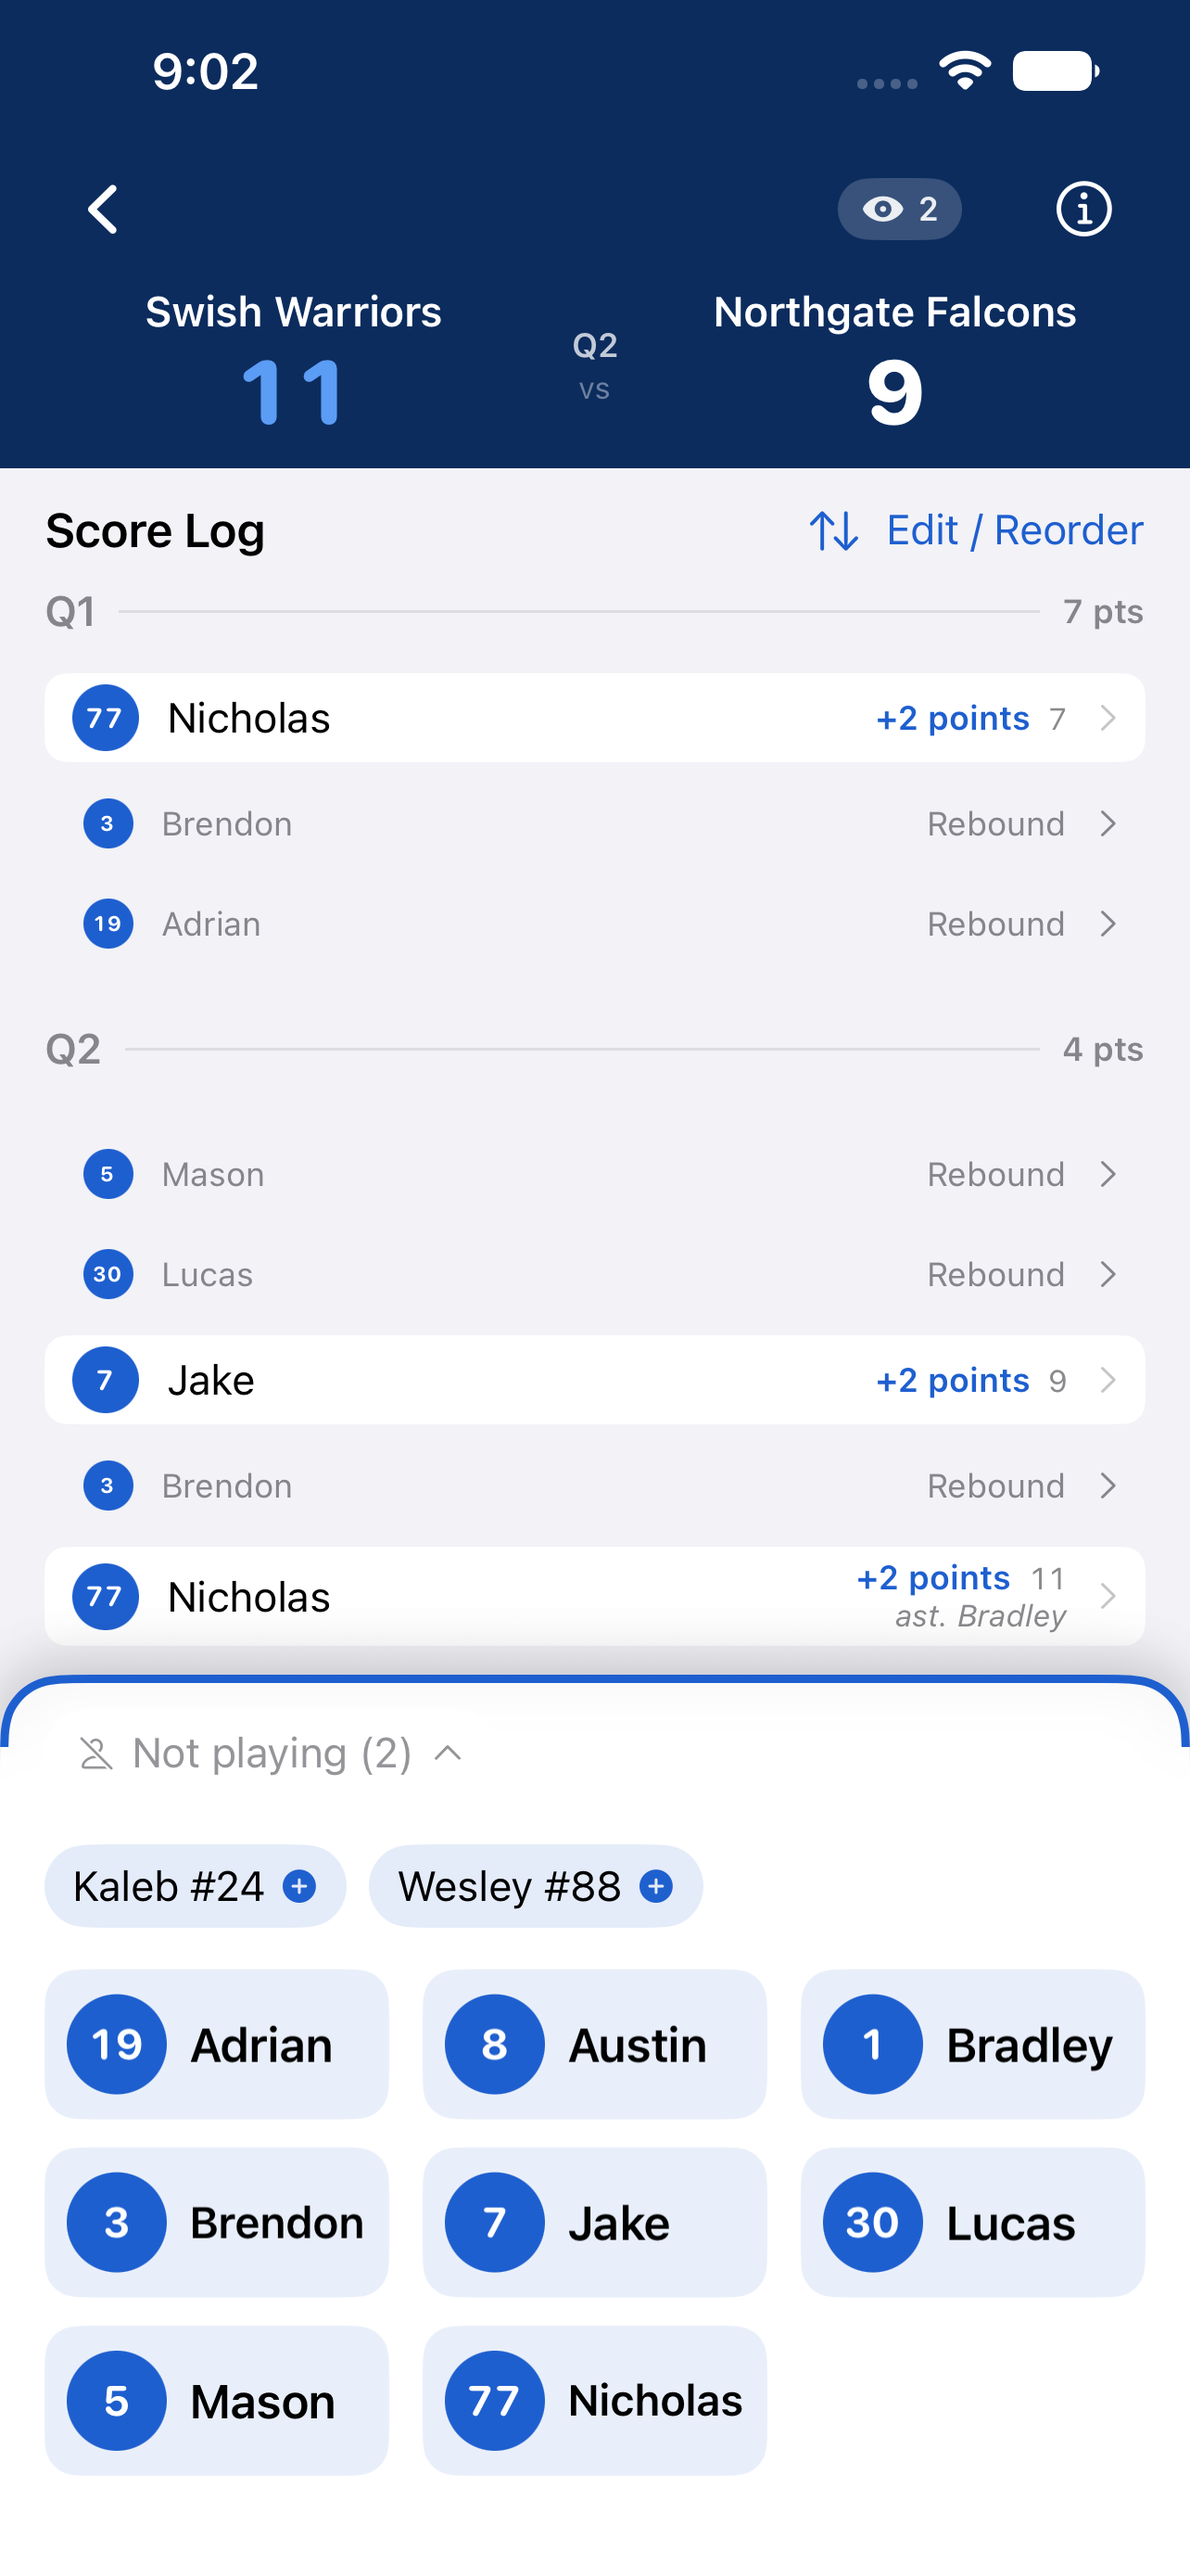
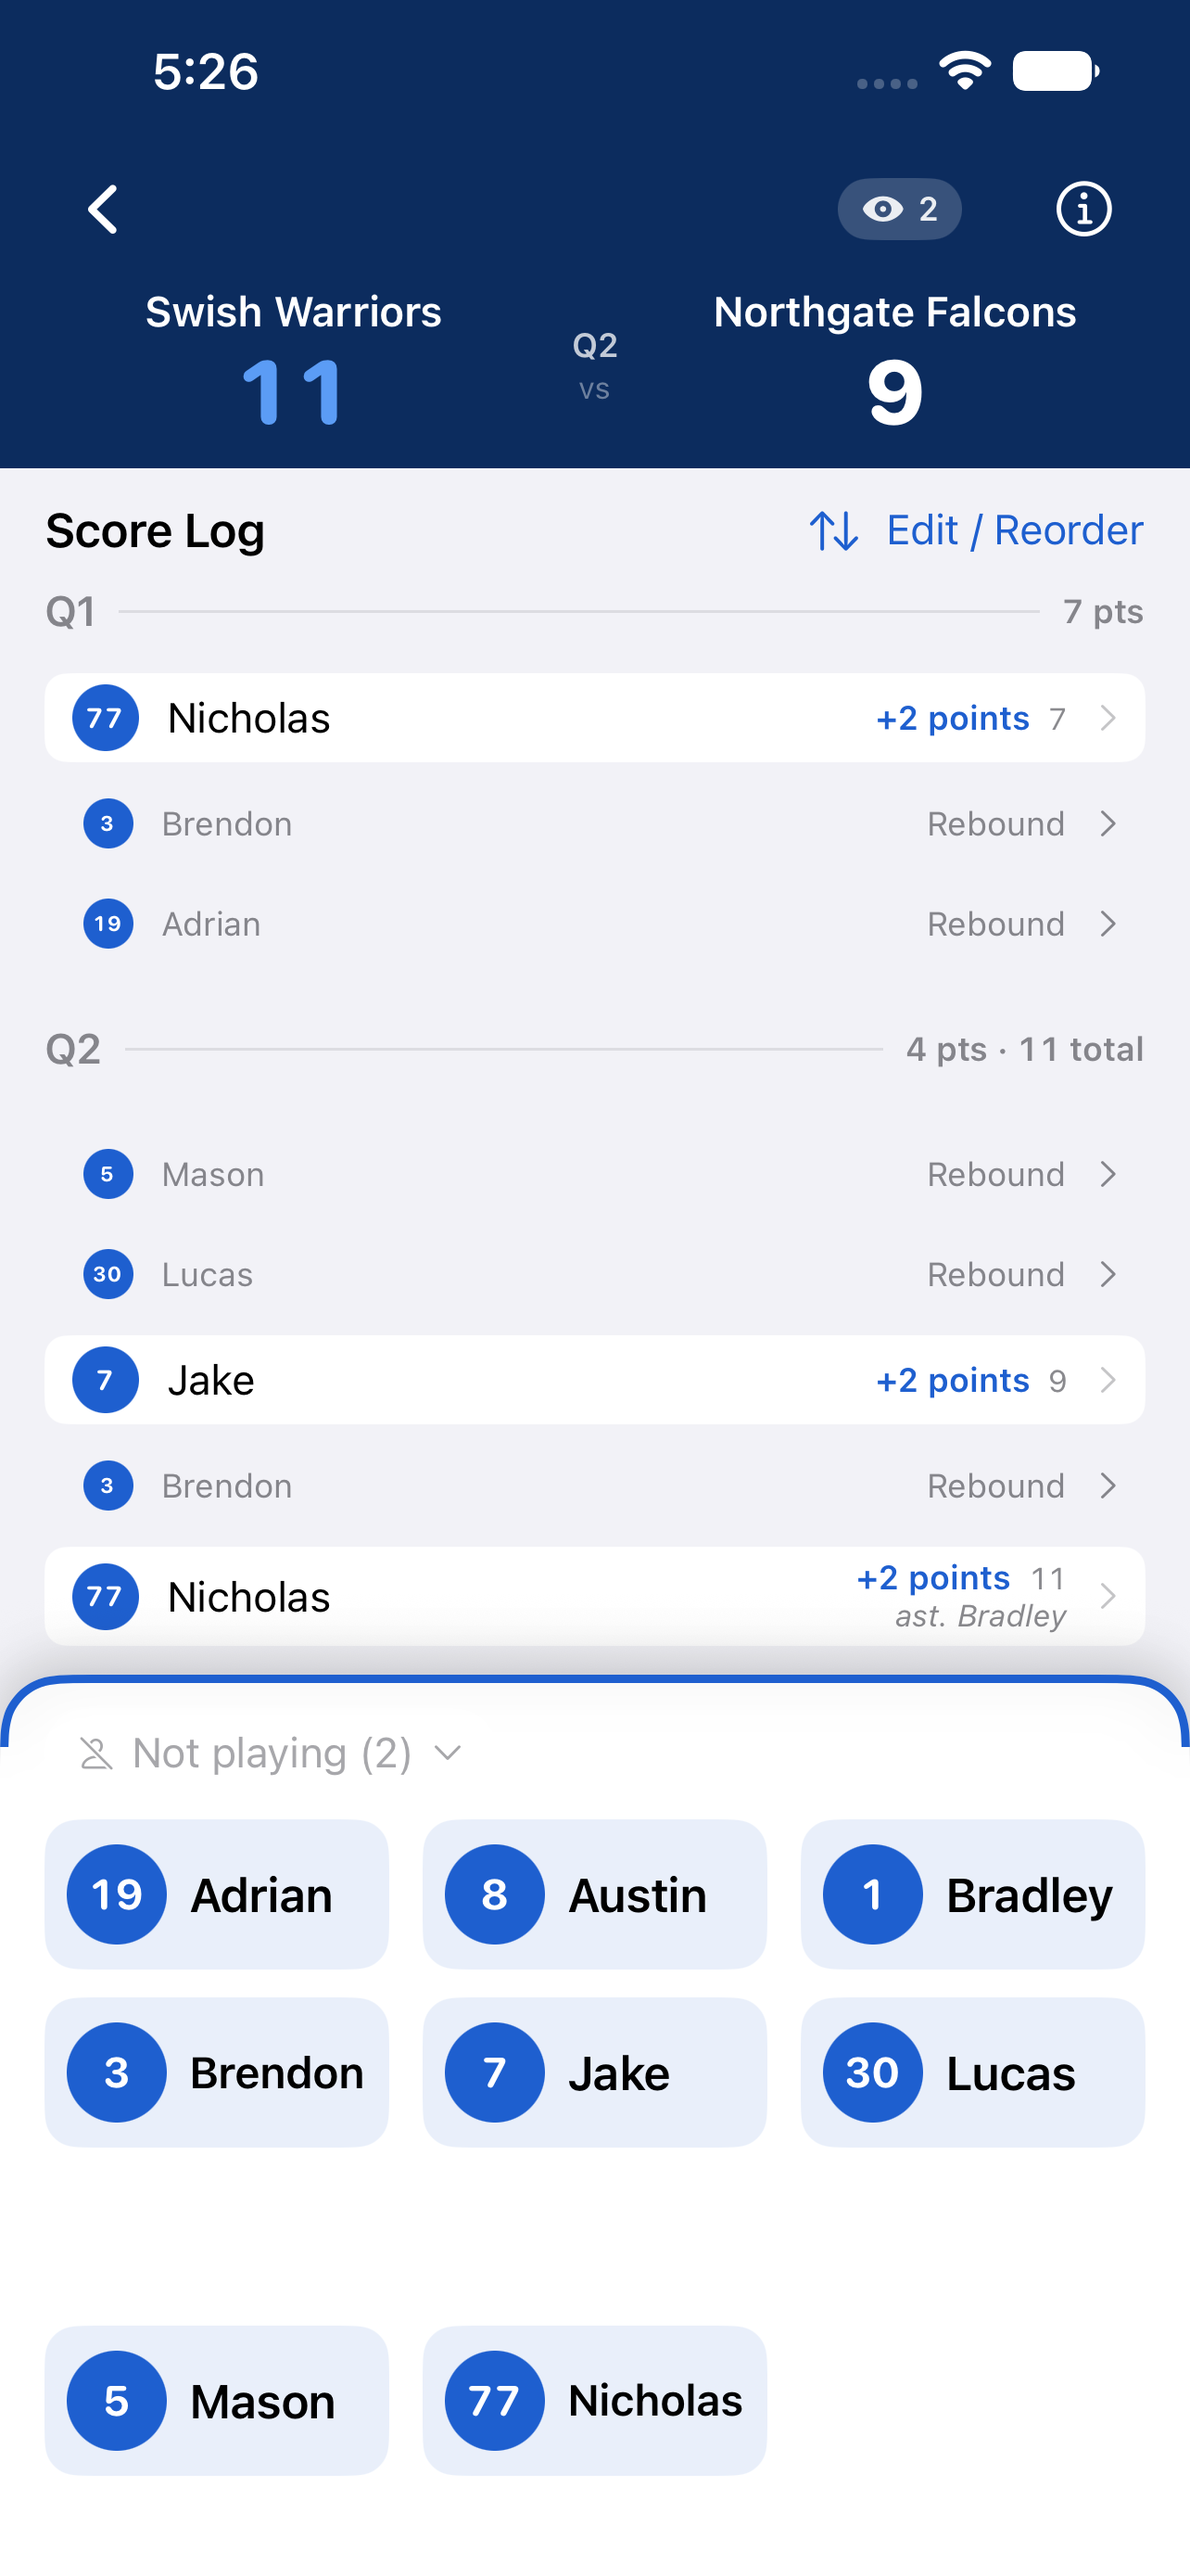
Show the running total in Score Log period headers
Closes #183

Each period header said only what was scored in that period. The running
total was in the log already, but only on the rows — to answer "what was the
score at the end of the third?" you had to find the last row of that period.
The header is where you look for it.

Reads `17 pts · 34 total`, and just `10 pts` in the opening period, where the
two numbers are the same and printing both is noise.

Computed *through* the period rather than "everything above this row", so it
stays correct in a follower's log, which runs newest-period-first. A test pins
that order-independence, along with a scoreless period still carrying the
total forward and non-scoring events (rebounds, missed FTs) moving neither
figure.

Built as one Text rather than two views: a second view competes with the
header's rule for width and gets squeezed to nothing — which is exactly what
the first attempt did, invisible until the screenshot.

Claude-Session: https://claude.ai/code/session_01XKw3Fyr61m8RtwfRppQofX

diff --git a/CourtsideHoopStatsTests/PeriodTotalsTests.swift b/CourtsideHoopStatsTests/PeriodTotalsTests.swift
@@ -1,0 +1,79 @@
+import Testing
+import Foundation
+@testable import CourtsideHoopStats
+
+/// The Score Log's period header shows both the points scored *in* a period
+/// and the score at the end of it (#183).
+///
+/// The cumulative figure has to be "through this period", not "everything
+/// above this row" — a follower's log runs newest-period-first, so an
+/// order-dependent sum would read backwards for exactly the people who can't
+/// correct it.
+struct PeriodTotalsTests {
+
+    private func game(_ script: [(Int, EventType)]) -> Game {
+        let player = UUID()
+        var game = Game(opponent: "Hawks")
+        game.events = script.map { GameEvent(playerID: player, type: $1, period: $0) }
+        return game
+    }
+
+    /// Mirrors what the header computes, so the maths is pinned even though
+    /// the view itself isn't unit-testable.
+    private func cumulative(_ game: Game, through period: Int) -> Int {
+        game.events.filter { $0.period <= period }.reduce(0) { $0 + $1.type.points }
+    }
+
+    private func inPeriod(_ game: Game, _ period: Int) -> Int {
+        game.events.filter { $0.period == period }.reduce(0) { $0 + $1.type.points }
+    }
+
+    @Test func theCumulativeTotalAddsUpAcrossPeriods() {
+        let g = game([
+            (1, .twoPoint), (1, .threePoint),        // Q1: 5
+            (2, .twoPoint), (2, .twoPoint),          // Q2: 4  → 9
+            (3, .ftMade), (3, .threePoint),          // Q3: 4  → 13
+        ])
+
+        #expect(inPeriod(g, 1) == 5)
+        #expect(cumulative(g, through: 1) == 5)
+        #expect(inPeriod(g, 2) == 4)
+        #expect(cumulative(g, through: 2) == 9)
+        #expect(cumulative(g, through: 3) == 13)
+        #expect(cumulative(g, through: 3) == g.ourScore,
+                "the last period's total must equal the game score")
+    }
+
+    /// Rebounds and missed free throws are in the log but score nothing, so
+    /// neither figure may move (#174).
+    @Test func nonScoringEventsDoNotMoveEitherFigure() {
+        let g = game([
+            (1, .twoPoint), (1, .rebound), (1, .ftMissed), (1, .rebound),
+        ])
+
+        #expect(inPeriod(g, 1) == 2)
+        #expect(cumulative(g, through: 1) == 2)
+    }
+
+    /// A period nobody scored in still shows the running total carried into
+    /// it, rather than a misleading zero.
+    @Test func aScorelessPeriodStillCarriesTheTotal() {
+        let g = game([(1, .threePoint), (3, .twoPoint)])
+
+        #expect(inPeriod(g, 2) == 0)
+        #expect(cumulative(g, through: 2) == 3, "Q2 scoreless, but we're still on 3")
+        #expect(cumulative(g, through: 3) == 5)
+    }
+
+    /// Order-independent, which is what makes it safe in the follower's
+    /// reversed log.
+    @Test func theTotalDoesNotDependOnEventOrder() {
+        let forward = game([(1, .twoPoint), (2, .threePoint), (3, .ftMade)])
+        var shuffled = forward
+        shuffled.events.reverse()
+
+        for period in 1...3 {
+            #expect(cumulative(forward, through: period) == cumulative(shuffled, through: period))
+        }
+    }
+}

diff --git a/CourtsideHoopStats/Views/EventLogView.swift b/CourtsideHoopStats/Views/EventLogView.swift
@@ -82,10 +82,13 @@ struct EventLogView: View {
             Rectangle()
                 .fill(Color(.separator))
                 .frame(height: 1)
-            Text("\(ourPoints(in: period)) pts")
+            // One `Text`, not two: a second view here competes with the rule
+            // for width and gets squeezed to nothing.
+            Text(periodTotals(period))
                 .font(.caption).bold()
                 .foregroundStyle(.secondary)
                 .monospacedDigit()
+                .fixedSize()
         }
         .padding(.vertical, 4)
         // Opaque behind the sticky header so scrolling rows don't show through.
@@ -124,6 +127,26 @@ struct EventLogView: View {
 
     private func ourPoints(in period: Int) -> Int {
         game.events.filter { $0.period == period }.reduce(0) { $0 + $1.type.points }
+    }
+
+    /// Our score at the end of `period` — every event up to and including it.
+    private func cumulativePoints(through period: Int) -> Int {
+        game.events.filter { $0.period <= period }.reduce(0) { $0 + $1.type.points }
+    }
+
+    /// `7 pts` in the first scoring period, `17 pts · 34 total` after that.
+    ///
+    /// The running total is what the header is really for — "what was the
+    /// score at the end of the third?" — but in the opening period it repeats
+    /// the number beside it, so it's left off rather than printed twice (#183).
+    ///
+    /// Computed *through* the period rather than "everything above this row",
+    /// so it still reads correctly in a follower's log, which runs
+    /// newest-period-first.
+    private func periodTotals(_ period: Int) -> String {
+        let scored = ourPoints(in: period)
+        let total = cumulativePoints(through: period)
+        return scored == total ? "\(scored) pts" : "\(scored) pts · \(total) total"
     }
 
     /// Cumulative team points after each event, in chronological order,
